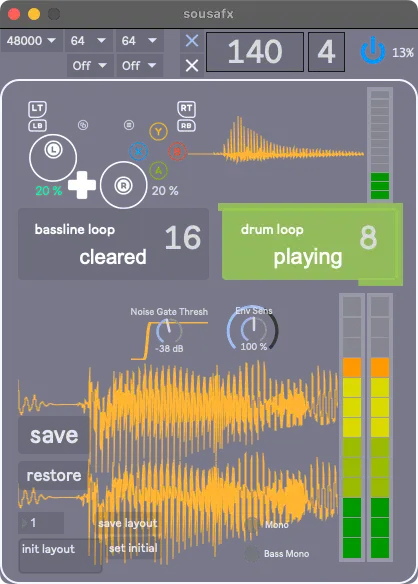
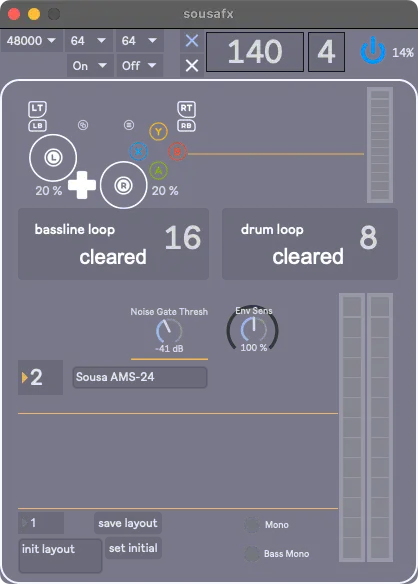
update docs

diff --git a/docs/overview.md b/docs/overview.md
@@ -1,12 +1,12 @@
 # Overview
 
-This overview describes all of the parameters that are adjustable via SousaFX's interface. Generally, these parameters handle the overall mix and tone, while the [gamepad](bindings.md) triggers and modulates the audio effects.
+This overview describes all of the parameters that are adjustable via SousaFX's interface. Generally, these parameters handle the overall mix and tone, while the [gamepad](bindings.md) triggers and modulates the audio effects. 
 
 ## Main Window
 
 ![main](img/main_window.webp)
 
-Closing this window quits SousaFX.
+Closing this window quits SousaFX. All parameter changes are auto-saved when SousaFX is closed.
 
 ### Status Bar
 
@@ -47,12 +47,6 @@ Below are the status displays for the [tuba bassline looper, and drum looper](lo
 
 	Sets the main envelope sensitivity, which should generally be around 180%
 
-### Save Restore
-
-The Save button saves all the parameters in the main window (except for the window layout), and all the FX parameters windows.
-
-The Restore button discards all changes and restores the previous save.
-
 ### Layout
 
 On the bottom left is a way to save window layouts. Click the number box and press the up or down key to cycle through the window layout presets. Type a description in the textbox, and click "save layout" to save the current window layout with the description to the current preset number. Click "set initial" to set the current preset number as the initial preset to load on launch.
@@ -73,8 +67,6 @@ The following windows may be opened via the FX Parameters menu:
 
 - [Mixbus](overview.md#mixbus)
 
-- [EQs](overview.md#eqs)
-
 ## Active Bindings
 
 ![bind](img/active_bindings.webp)
@@ -92,6 +84,90 @@ This is the heart of SousaFX, and sets the tone of the bassline. We'll start wit
 This dial adjusts the envelope sensitivity for the crossfader, which crossfades between the overdriven modulated lowpass filter sound, and the dry detuned sound. When the tuba begins a phrase, the crossfade starts on the the dry sound, then quickly follows the envelope over to the filtered sound. The louder the tuba plays, the less filtered, and dryer, the sound can become.
 
 The crossfade's range is actively adjusted via the "Crossfade Position" [binding](bindings.md#left-thumbstick). The crosfade's behavior can be modified with the left thumbstick's [button](bindings.md#l3-button).
+
+### Overdrive
+
+These parameters set the tone of the overdriven lowpass filtered sound on the quieter end of the crossfade. This signal is compressed by the pre-xfade-wet conpressor.
+
+- mix
+
+	wet / dry mixer, 100% is all wet signal
+
+- drive
+
+	overdrive amount
+
+- high boost
+
+	Increase the volume of the high frequencies for a brighter sound. (pre-drive)
+
+- high freq
+
+	Set the center frequency of the high filter.
+
+- high Q
+
+	Set the width of the high filter. 0% is broad, 100% is narrow.
+
+- mid trim
+
+	Decrease the volume of the mid frequencies for a less muddier sound. (post-drive)
+
+- mid freq
+
+	Set the center frequency of the mid filter.
+
+- mid Q
+
+	Set the width of the mid filter. 0% is broad, 100% is narrow.
+
+
+### Detune
+
+These parameters set the tone of the dryer detuned sound on the louder end of the crossfade. This signal is compressed by the pre-xfade-dry compressor.
+
+- mix
+
+	Wet / dry mixer, 100% is all wet signal.
+
+- spread
+
+	The amount of detune between the left and right channels in cents.
+
+- window
+
+	Longer window = higher quality, but higher latency. (there is no latency compensation on the dry signal)
+
+- high boost
+
+	Increase the volume of the high frequencies for a brighter sound.
+
+- high freq
+
+	Set the center frequency of the high filter.
+
+- high Q
+
+	Set the width of the high filter. 0% is broad, 100% is narrow.
+
+- mid trim
+
+	Decrease the volume of the mid frequencies for a less muddy sound.
+
+- mid freq
+
+	Set the center frequency of the mid filter.
+
+- mid Q
+
+	Set the width of the mid filter. 0% is broad, 100% is narrow.
+
+### Bassline EQs
+
+Low-mid frequencies tend to build up for various reasons. The "mid trim" can tame those frequencies.
+
+The tuba's sub frequencies can drop precipitously below 60 Hz. The low boost can compensate for that to an extent.
+
 
 ### LFO env sens
 
@@ -123,63 +199,8 @@ The four dials below adjust the floor and ceiling's minimums and maximums:
 
 - Min Floor
 
-### LPF menu
+The two number boxes at the bottom set the minimum and maximum resonance for the modulated lowpass filter. The resonance is modulated by the tuba's loudness.
 
-There are three different lowpass filters to choose from:
-
-- Korg 35
-
-- Andrew Simper's SVF
-
-- Vadim Zavalishin's diode ladder
-
-The toggle on the left allows the lowpass filter type to randomize whenever the bassline looper starts looping.
-
-The minimum and maximum resonance for each filter can be set via the six number boxes.
-
-### Detune
-
-These parameters set the tone of the dryer detuned sound on the louder end of the crossfade. This signal is compressed by the pre-xfade-dry compressor.
-
-- mix
-
-	wet / dry mixer, 100% is all wet signal
-
-- spread
-
-	the amount of detune between the left and right channels in cents
-
-- window
-
-	longer window = higher quality, but higher latency
-
-### Overdrive
-
-These parameters set the tone of the overdriven lowpass filtered sound on the quieter end of the crossfade. This signal is compressed by the pre-xfade-wet conpressor.
-
-- mix
-
-	wet / dry mixer, 100% is all wet signal
-
-- drive
-
-	overdrive amount
-
-- high cut
-
-- low cut
-
-- treble
-
-- mid
-
-	This mid boost is tamed by the pre-xfade-wet conpressor's sidechain eq's "hi mid gain".
-
-- midfreq
-
-- bass
-
-- output volume
 
 ## Compressors and Limiters
 
@@ -193,7 +214,7 @@ This window displays two limiters and six compressors
 
 !!! note
 
-	There's a 90 Hz crossover filter that separates the tuba's highs and lows pre-overdrive, to keep the lows clean.
+	There is an 80 Hz crossover filter that separates the tuba's highs and lows pre-overdrive, to keep the lows clean, and allow the lows to be compressed separately from the highs.
 
 - post-xover-lows
 
@@ -269,6 +290,10 @@ This window displays four delays for the bassline input, the bassline looper, th
 
 ![mixbus](img/mixbus_params.webp)
 
+- Mic EQ
+
+	This lowpass filter cuts extraneous high frequencies from the mic's input signal.
+
 ### Reverb
 
 The drums, bassline, and solo are sent to this reverb.
@@ -311,7 +336,7 @@ The drums, bassline, and solo are sent to this reverb.
 
 - dry vol
 
-	The volume of the tuba solo's "dry" signal, which includes the mic eq, pitch shifter, and solo compressor, and does not include the delay or stutter. This parameter can be quite low if you're playing in a small room.
+	The volume of the tuba solo's "dry" signal, which is post mic eq, pitch shifter, and solo compressor. This does not include the delay or stutter. This parameter can be turned down quite a bit if you're performing in a small room.
 
 - delay vol
 
@@ -334,16 +359,3 @@ The drums, bassline, and solo are sent to this reverb.
 - minimum drum reverb volume
 
 	The minimum volume of the drum's reverb effect.
-
-
-## EQs
-
-![eq](img/eq_params.webp)
-
-Low-mid frequencies tend to build up for various reasons. The mic and bassline's mid-EQs can tame those frequencies.
-
-The tuba's sub frequencies drop precipitously below 60 Hz. The low boost can compensate for that to an extent. This can, however, exacerbate feedback.
-
-The mic's lowpass cuts extraneous high frequencies from the mic's input signal.
-
-

diff --git a/docs/bindings.md b/docs/bindings.md
@@ -212,17 +212,6 @@ If the d-pad is pressed quickly, the delays will not pitch shift while the delay
 	> Allowed while bassline looper enabled.
 
 
-### Diagonal
-
-![left diagonal](img/Ldiag.webp)
-
-- LFO ceiling envelope sensitivity:
-
-	> Up-left increases the sensitivity.
-
-	> Down-right decreases the sensitivity.
-
-
 ### L3 Button
 
 ![l3](img/L3.webp)
